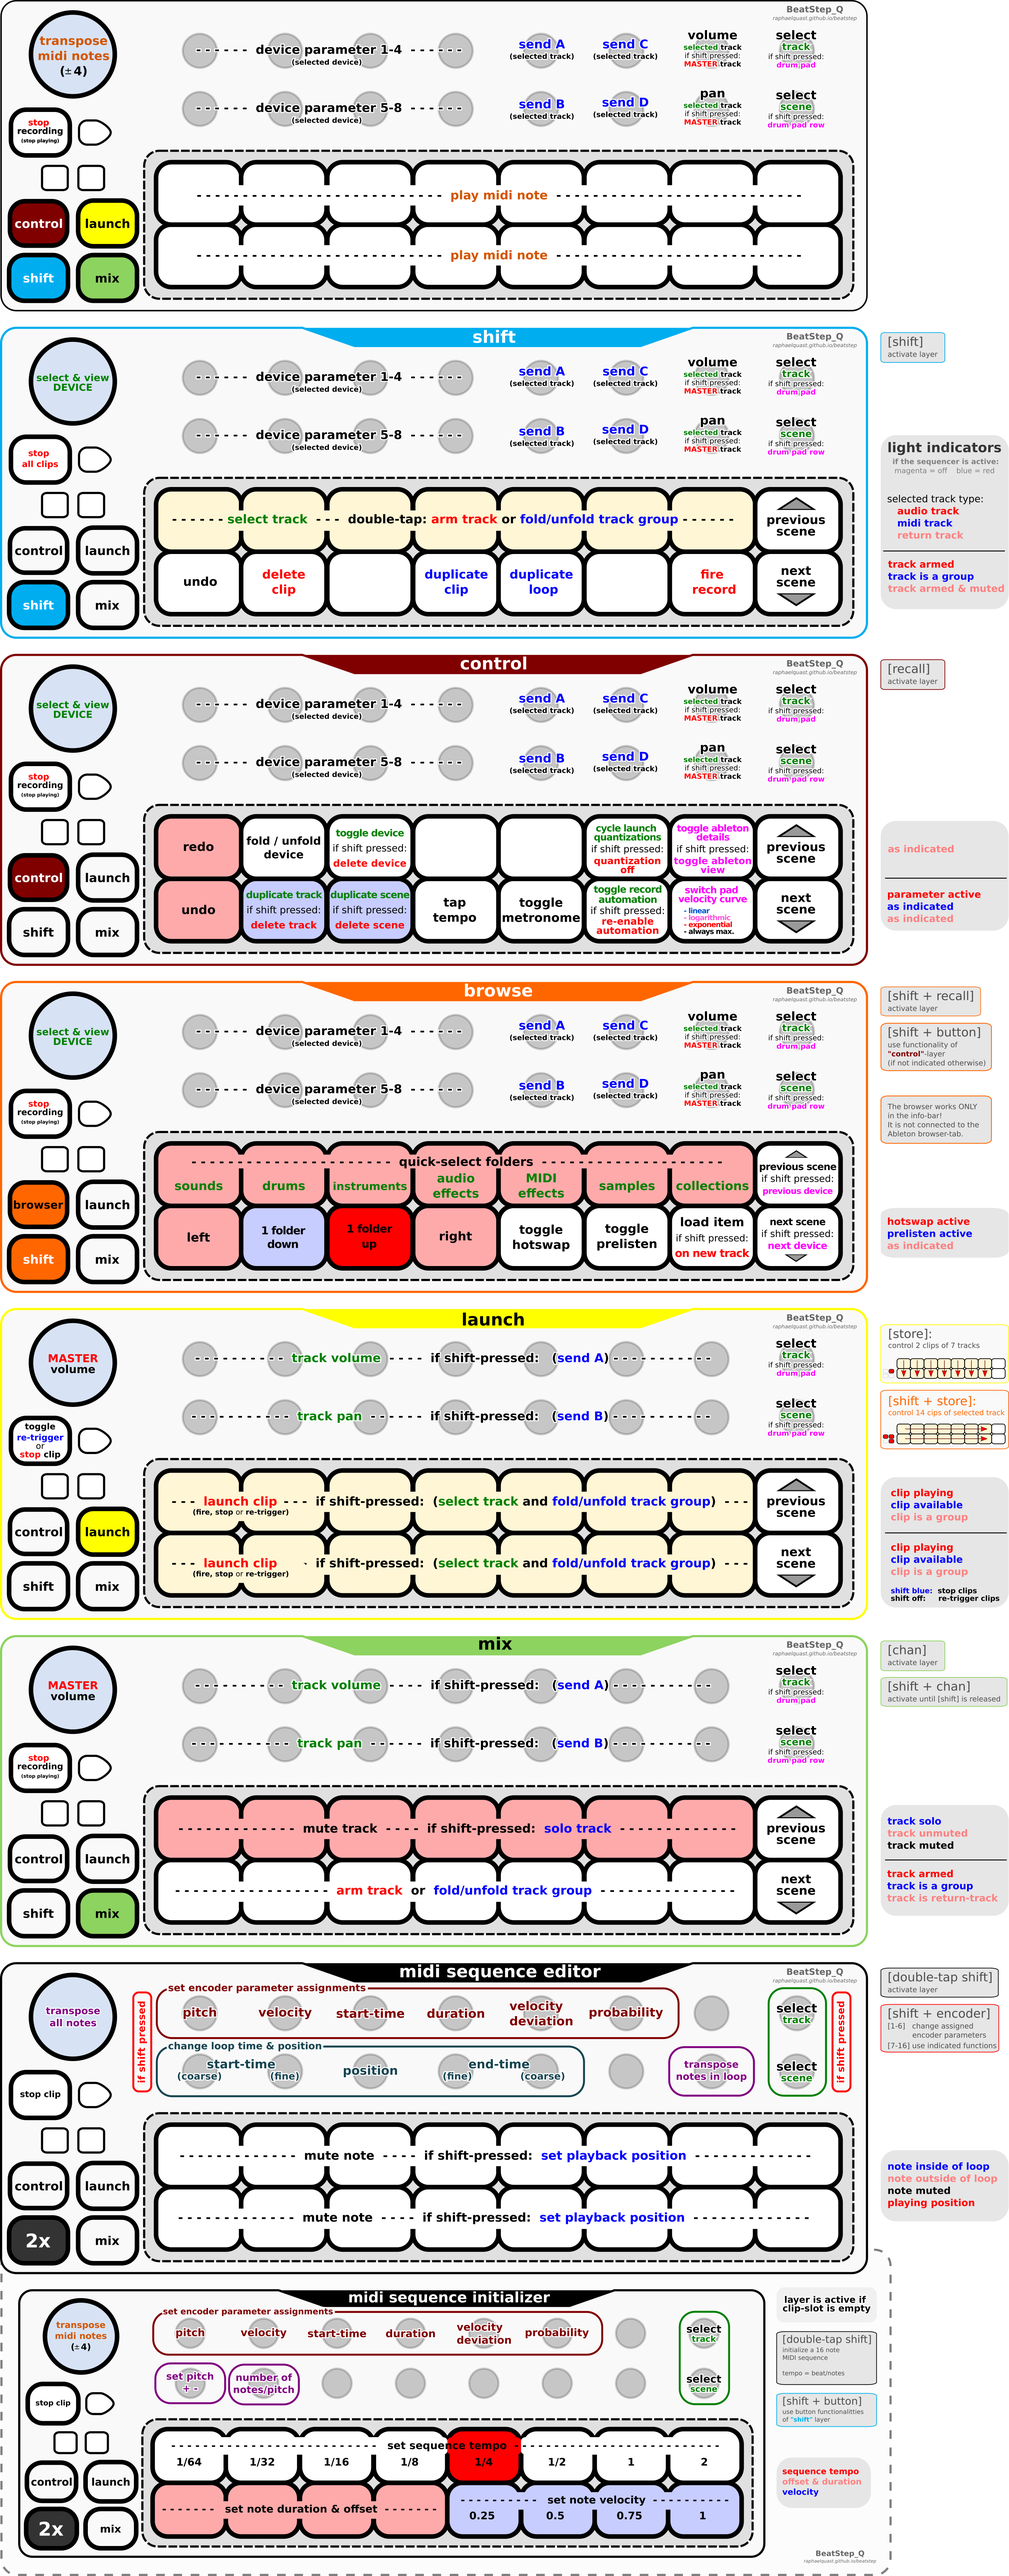
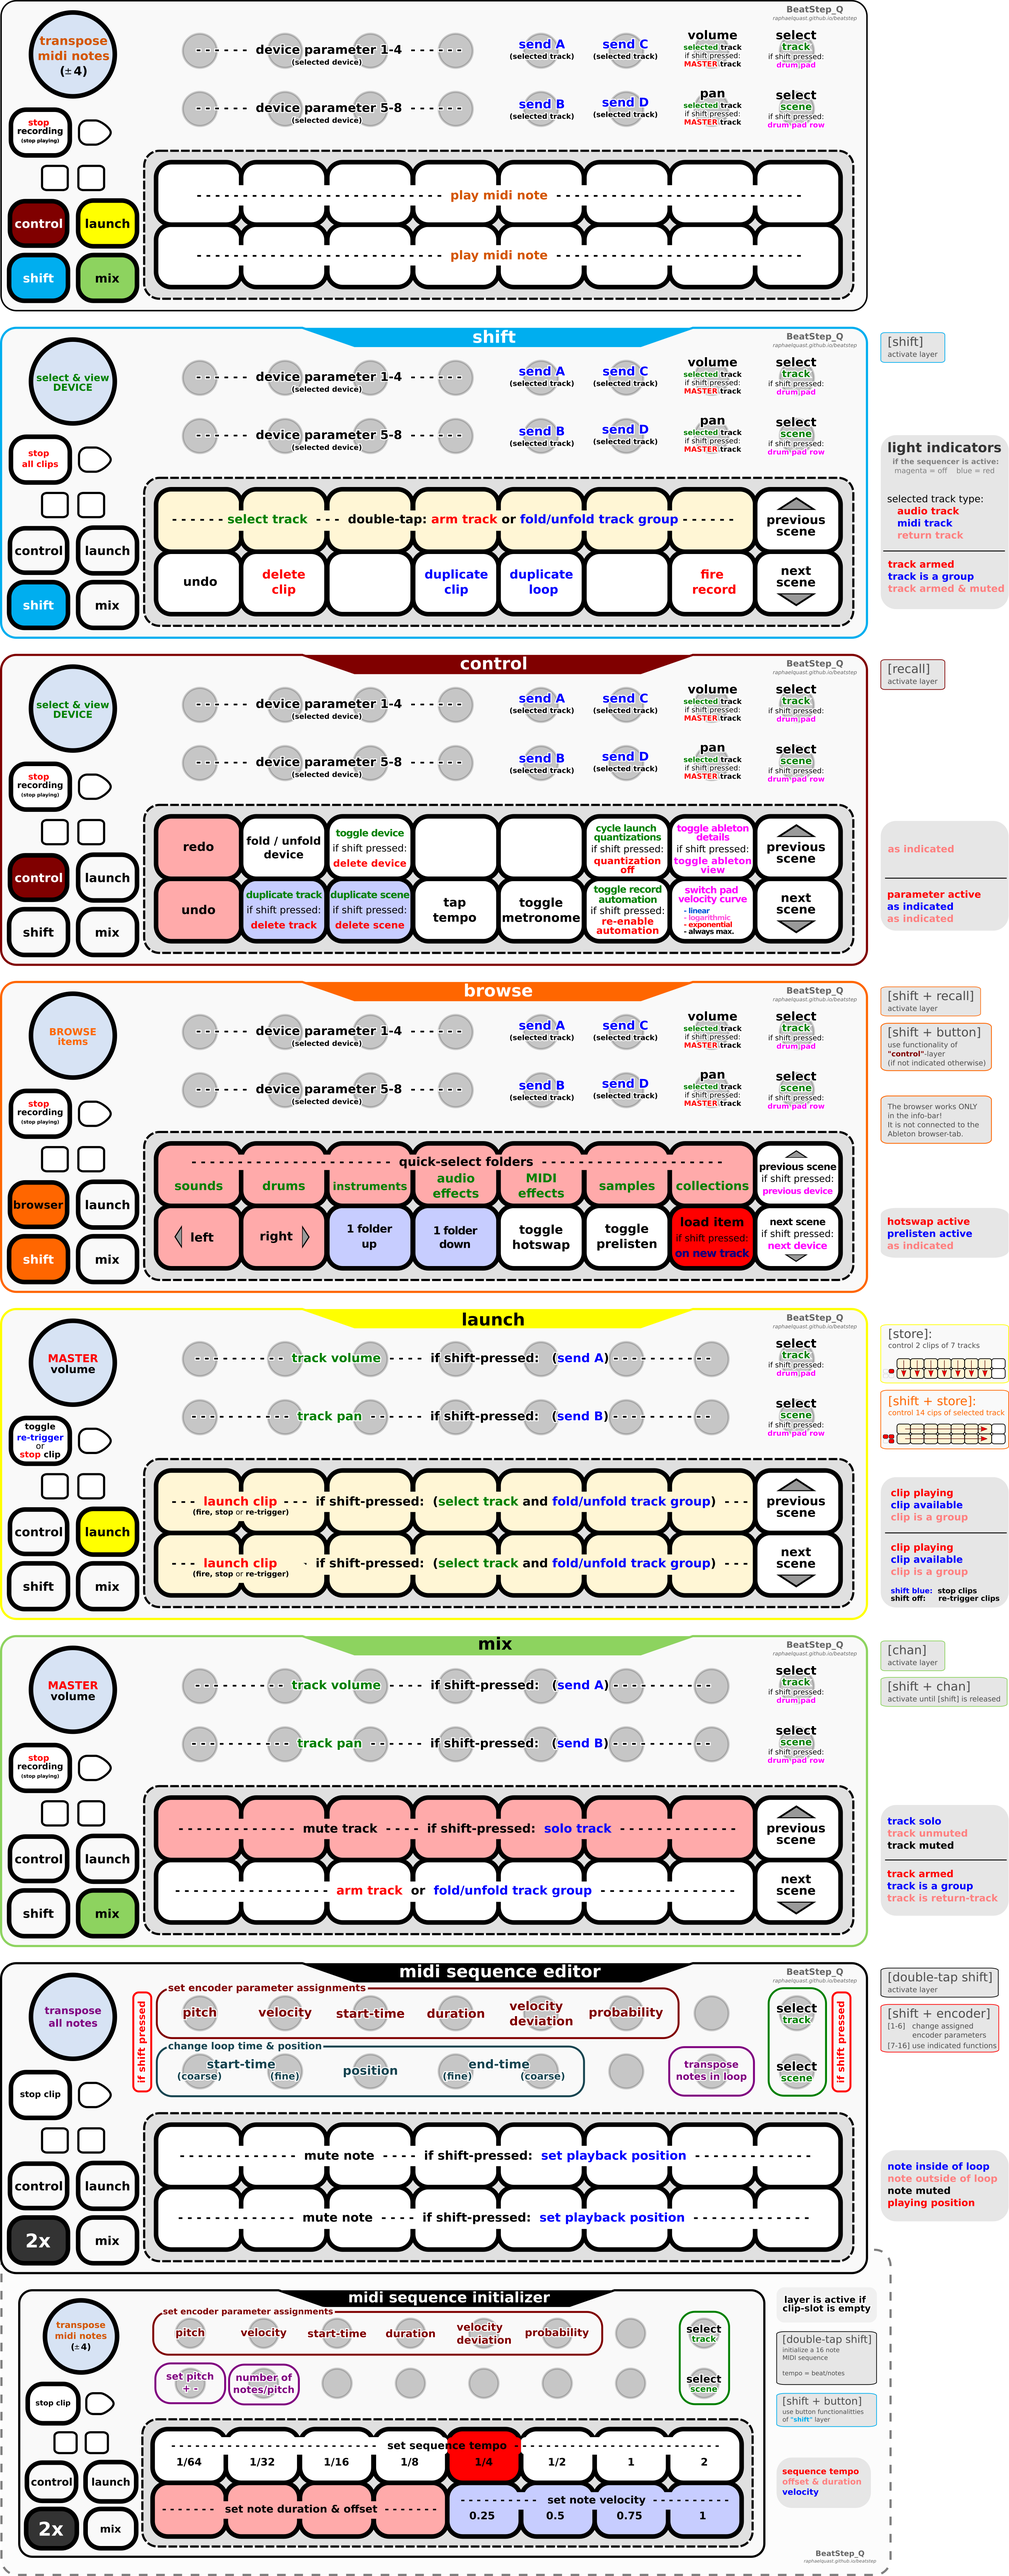
change up/down enter/exit buttons in browser-layer update readme & assignments image

diff --git a/QBrowser.py b/QBrowser.py
@@ -573,11 +573,11 @@ class QBrowser(object):
             elif i == 8:
                 self.scroll_down()
             elif i == 9:
-                self.prev_level()
-            elif i == 10:
-                self.next_level()
-            elif i == 11:
                 self.scroll_up()
+            elif i == 10:
+                self.prev_level()
+            elif i == 11:
+                self.next_level()
             elif i == 12:
                 self._toggle_hotswap()
             elif i == 13:
@@ -646,9 +646,9 @@ class QBrowser(object):
         self.button_colors[6] = "magenta"
         self.button_colors[7] = "magenta"
 
-        self.button_colors[9] = "magenta"
+        self.button_colors[9] = "blue"
         self.button_colors[10] = "blue"
-        self.button_colors[11] = "red"
+        self.button_colors[11] = "magenta"
         self.button_colors[12] = "magenta"
 
         if self.hotswap:

diff --git a/README.md b/README.md
@@ -48,7 +48,11 @@ The script will set all encoders and buttons to send messages on the Midi-channe
 
 - To ensure that the script is automatically selected (instead of the default script), rename the already existing *"Beatstep"* folder to *"_Beatstep"* (or something that it is alphabetically sorted **after** *"BeatStep_Q"*)
 
-After initialization, you can recall any saved MIDI configuration and the control-layers will still work!
+> After initialization, you can recall any saved MIDI configuration and the control-layers will still work!
+
+
+
+
 
 
 ## General (click to expand)
@@ -61,19 +65,21 @@ The buttons `recall`, `store`,`chan` and `shift` are used to activate the contro
 
 - all layers (except the *"shift-layer"*) remain activated until the corresponding button is pressed again
 
-- the *"shift-layer"* can be activated permanently by **double-tapping** the `shift` button
+- holding `shift` while pressing `chan` will temporarily activate the *"mix-layer"* until `shift` is released
 
-- holding `shift` while pressing `recall` or `chan` will activate the corresponding layer until `shift` is released
+- the *"if shift pressed"* features are only available if the corresponding layer is activated permanently **and** `shift` is pressed
 
-- the *"if shift pressed"* features are only relevant if the layers are activated permanently **and** `shift` is pressed
+The `stop` button works the same (on all layers) as follows:
 
-The `stop` button can be used as follows:
+- if the selected clip is currently recording: only recording is stopped (but playback is continued)
 
-- if the selected clip is currently recording: only stop recording (but continue playback)
-
-- if the selected clip is playing: trigger stop
+- if the selected clip is playing: stop is triggered
 
 - *"if shift pressed"* : stop **ALL** tracks
+
+> While no layer is active, all buttons can be used to play midi-notes!  
+> (>> use the `transpose-encoder` to change the assigned range of midi-notes)
+
 
 </details>
 
@@ -82,8 +88,9 @@ The `stop` button can be used as follows:
 
 <details><summary>:white_circle: <strong>ENCODERS</strong></summary>  
 
-The `transpose-encoder` can be used to transpose the note-assignments of the buttons.
+The `transpose-encoder` can be used to transpose the note-assignments of the buttons.  
 (a red button-color indicates that the lower-left button is at the note C-2, C-1, C0, C1, etc.)
+> The info-message also tells you the current assignment of the lower-left button (e.g. `button 9`)
 
 - `encoder 1-4` and `9-12` : control the first 8 parameters of the selected device
 
@@ -177,7 +184,6 @@ All encoders are assigned as described above except for the `transpose-encoder`,
 - coming soon
 
 </details>
-
 
 --- 
 
